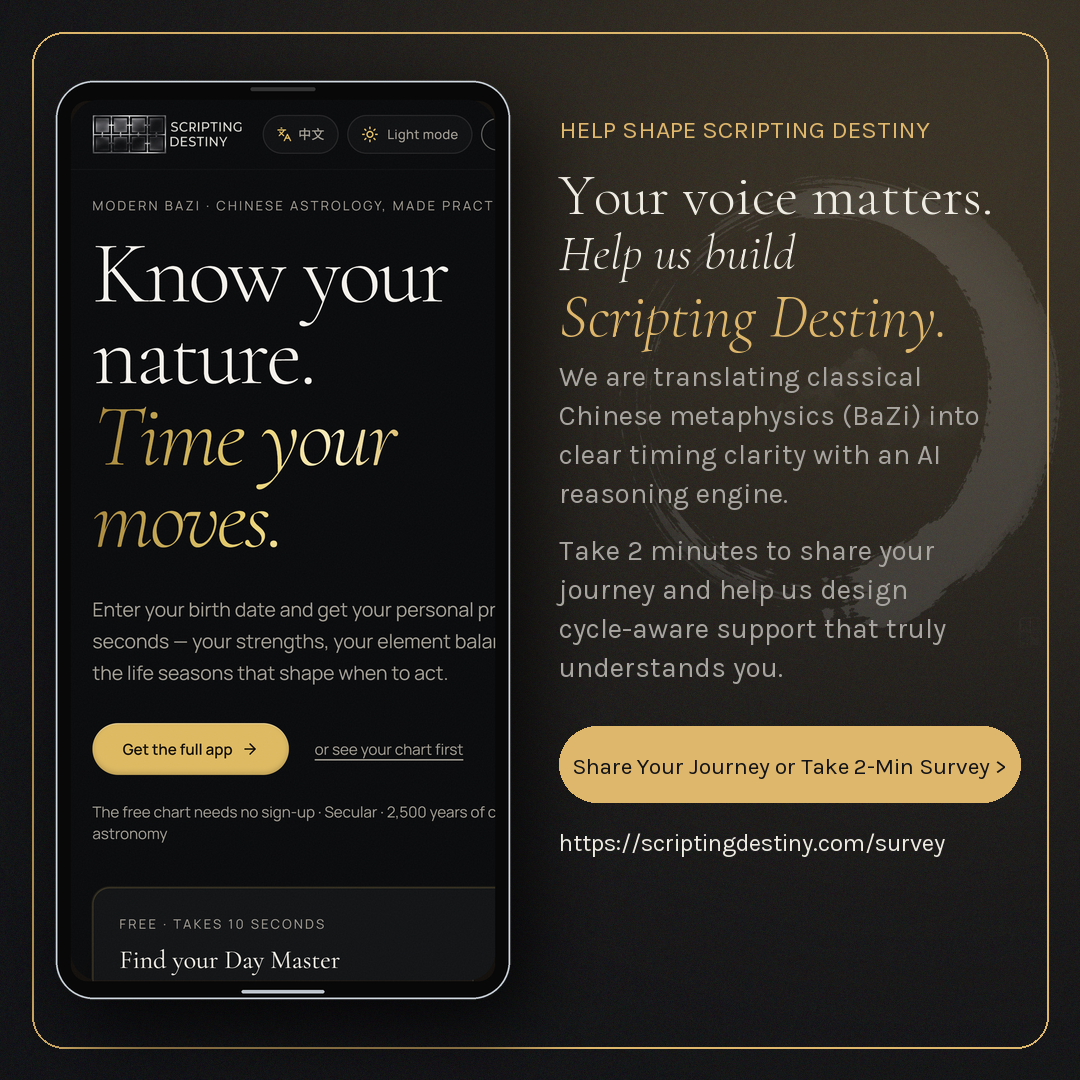
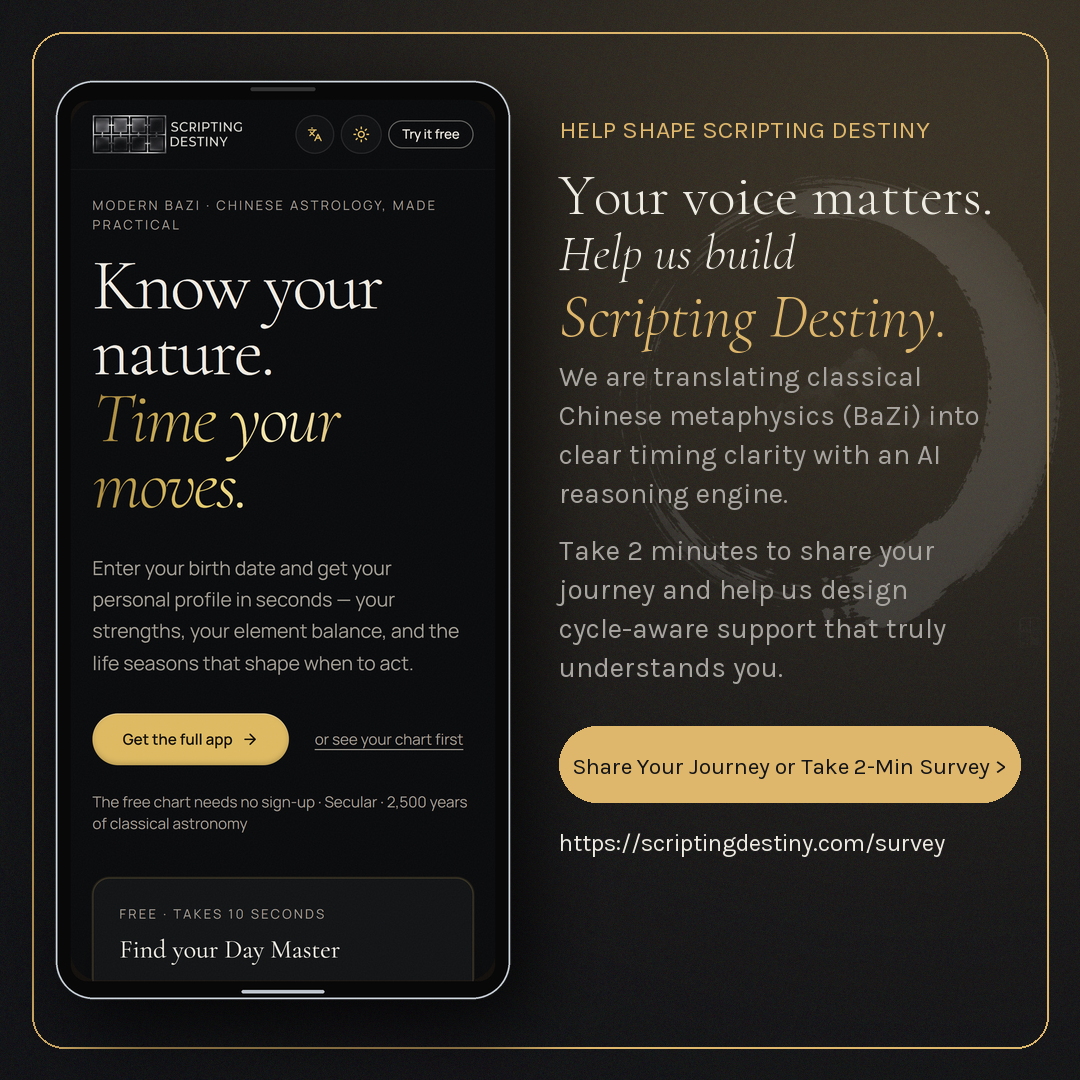
fix(mobile): resolve horizontal overflow on mobile viewports and unclip chart pillars

diff --git a/src/components/site/ChartTry.tsx b/src/components/site/ChartTry.tsx
@@ -78,32 +78,32 @@ export function ChartTry() {
 
   if (isResultOnly && chart && stemInfo) {
     return (
-      <div id="result" className="animate-in fade-in duration-300">
-        <div className="flex items-start gap-5">
+      <div id="result" className="animate-in fade-in duration-300 w-full max-w-sm sm:max-w-md mx-auto">
+        <div className="flex items-start gap-4 sm:gap-5">
           <span
-            className={`font-serif text-6xl leading-none ${ELEMENT_METALLIC[chart.dayMaster.element]}`}
+            className={`font-serif text-5xl sm:text-6xl leading-none shrink-0 ${ELEMENT_METALLIC[chart.dayMaster.element]}`}
           >
             {chart.dayMaster.hanzi}
           </span>
-          <div>
-            <p className="eyebrow">
+          <div className="min-w-0">
+            <p className="eyebrow truncate">
               {chart.dayMaster.pinyin} ·{" "}
               {isZh ? ELEMENT_ZH_MAP[chart.dayMaster.element] : chart.dayMaster.element} ·{" "}
               {t.chart.youAre}
             </p>
-            <h3 className="font-serif text-3xl font-light">{stemInfo.title}</h3>
-            <p className="text-sm italic text-muted-foreground">{stemInfo.archetype}</p>
+            <h3 className="font-serif text-2xl sm:text-3xl font-light">{stemInfo.title}</h3>
+            <p className="text-xs sm:text-sm italic text-muted-foreground">{stemInfo.archetype}</p>
           </div>
         </div>
-        <p className="mt-4 text-sm leading-relaxed">{stemInfo.description}</p>
+        <p className="mt-3.5 sm:mt-4 text-xs sm:text-sm leading-relaxed">{stemInfo.description}</p>
 
-        <div className="mt-6">
+        <div className="mt-5 sm:mt-6">
           <p className="eyebrow mb-2">{t.chart.eightCharacters}</p>
-          <div className="grid grid-cols-4 gap-2 rounded-xl border border-accent/25 dark:border-accent/20 p-2 bg-background/40 backdrop-blur-sm shadow-inner">
+          <div className="grid grid-cols-4 gap-1.5 sm:gap-2 rounded-xl border border-accent/25 dark:border-accent/20 p-1.5 sm:p-2.5 bg-background/40 backdrop-blur-sm shadow-inner">
             {(["hour", "day", "month", "year"] as const).map((k) => (
               <div
                 key={k + "s"}
-                className={`pillar-cell ${ELEMENT_TEXT[chart[k].stem.element]} ${k === "day" ? "is-day-master" : ""}`}
+                className={`pillar-cell min-w-0 ${ELEMENT_TEXT[chart[k].stem.element]} ${k === "day" ? "is-day-master" : ""}`}
               >
                 {chart[k].stem.hanzi}
               </div>
@@ -111,7 +111,7 @@ export function ChartTry() {
             {(["hour", "day", "month", "year"] as const).map((k) => (
               <div
                 key={k + "b"}
-                className={`pillar-cell ${ELEMENT_TEXT[chart[k].branch.element]}`}
+                className={`pillar-cell min-w-0 ${ELEMENT_TEXT[chart[k].branch.element]}`}
               >
                 {chart[k].branch.hanzi}
               </div>
@@ -125,12 +125,12 @@ export function ChartTry() {
           </div>
         </div>
 
-        <div className="mt-6">
+        <div className="mt-5 sm:mt-6">
           <p className="eyebrow mb-2">{t.chart.fiveElementsBalance}</p>
-          <div className="grid gap-2.5 rounded-lg border border-border/60 bg-background/30 p-3">
+          <div className="grid gap-2 sm:gap-2.5 rounded-lg border border-border/60 bg-background/30 p-2.5 sm:p-3">
             {(Object.keys(chart.elementBalance) as ElementType[]).map((el) => (
-              <div key={el} className="flex items-center gap-3 text-xs">
-                <span className="w-12 text-muted-foreground font-medium">
+              <div key={el} className="flex items-center gap-2.5 sm:gap-3 text-xs">
+                <span className="w-10 sm:w-12 text-muted-foreground font-medium">
                   {isZh ? ELEMENT_ZH_MAP[el] : el}
                 </span>
                 <div className="h-2 flex-1 overflow-hidden rounded-full bg-muted">
@@ -147,9 +147,9 @@ export function ChartTry() {
           </div>
         </div>
 
-        <div className="mt-6 rounded-xl bg-card border border-accent/20 p-5">
+        <div className="mt-5 sm:mt-6 rounded-xl bg-card border border-accent/20 p-4 sm:p-5">
           <p className="text-sm font-semibold">{t.chart.wantFullTitle}</p>
-          <p className="mb-4 mt-1 text-xs text-muted-foreground">{t.chart.wantFullDesc}</p>
+          <p className="mb-3.5 sm:mb-4 mt-1 text-xs text-muted-foreground">{t.chart.wantFullDesc}</p>
           <WaitlistForm compact />
         </div>
       </div>

diff --git a/src/routes/index.tsx b/src/routes/index.tsx
@@ -116,12 +116,12 @@ function Index() {
                 {t.nav.blog}
               </a>
             </nav>
-            <div className="flex items-center gap-2 sm:gap-3 2xl:gap-4">
+            <div className="flex items-center gap-1.5 sm:gap-3 2xl:gap-4 shrink-0">
               <LanguageToggle />
               <ThemeToggle />
               <a
                 href="#try"
-                className="rounded-full border border-foreground/40 px-3.5 py-1.5 2xl:px-5 2xl:py-2 text-xs sm:text-sm 2xl:text-base font-medium transition hover:bg-foreground hover:text-background shadow-sm"
+                className="rounded-full border border-foreground/40 px-3 py-1 sm:px-3.5 sm:py-1.5 2xl:px-5 2xl:py-2 text-xs sm:text-sm 2xl:text-base font-medium transition hover:bg-foreground hover:text-background shadow-sm whitespace-nowrap"
               >
                 {t.nav.tryItFree}
               </a>
@@ -131,7 +131,7 @@ function Index() {
       )}
 
       {view === "chart-result" ? (
-        <main className="site-container py-6 max-w-md">
+        <main className="site-container py-6 max-w-md mx-auto px-4 sm:px-6 overflow-x-hidden">
           <ChartTry />
         </main>
       ) : view === "chart" || view === "free-chart" ? (
@@ -156,7 +156,7 @@ function Index() {
       ) : (
         <main id="top" className="overflow-x-clip">
         {/* Hero */}
-        <section className="relative site-container pb-16 pt-6 sm:pb-20 sm:pt-8 lg:pt-12 2xl:pb-28 2xl:pt-16">
+        <section className="relative site-container pb-16 pt-6 sm:pb-20 sm:pt-8 lg:pt-12 2xl:pb-28 2xl:pt-16 overflow-x-clip">
           <img
             src={enso}
             alt=""
@@ -322,21 +322,23 @@ function Index() {
       </main>
       )}
 
-      <footer>
-        <InkStroke className="site-container" />
-        <div className="site-container flex flex-wrap items-center justify-between gap-4 py-8 2xl:py-12 text-xs 2xl:text-sm text-muted-foreground">
-          <span>
-            © {new Date().getFullYear()} {t.footer.copyright}
-          </span>
-          <div className="flex items-center gap-3 sm:gap-6 2xl:gap-8">
-            <LanguageToggle />
-            <ThemeToggle />
-            <Link to="/survey" className="hover:text-foreground transition-colors">
-              {t.footer.surveyLink}
-            </Link>
+      {view !== "chart-result" && (
+        <footer>
+          <InkStroke className="site-container" />
+          <div className="site-container flex flex-col sm:flex-row items-center justify-between gap-4 py-8 2xl:py-12 text-xs 2xl:text-sm text-muted-foreground">
+            <span>
+              © {new Date().getFullYear()} {t.footer.copyright}
+            </span>
+            <div className="flex flex-wrap items-center justify-center gap-3 sm:gap-6 2xl:gap-8">
+              <LanguageToggle />
+              <ThemeToggle />
+              <Link to="/survey" className="hover:text-foreground transition-colors whitespace-nowrap">
+                {t.footer.surveyLink}
+              </Link>
+            </div>
           </div>
-        </div>
-      </footer>
+        </footer>
+      )}
     </div>
   );
 }

diff --git a/src/components/site/ThemeToggle.tsx b/src/components/site/ThemeToggle.tsx
@@ -15,7 +15,7 @@ export function ThemeToggle({ className = "", showLabel = true }: ThemeTogglePro
       onClick={toggleTheme}
       aria-label={isDark ? "Switch to light cream mode" : "Switch to dark inkstone mode"}
       title={isDark ? "Switch to light cream mode" : "Switch to dark inkstone mode"}
-      className={`group relative inline-flex h-9 items-center gap-2 rounded-full border border-border bg-card/75 px-3 text-xs font-medium text-muted-foreground shadow-sm backdrop-blur-sm transition-all hover:border-foreground/30 hover:bg-card hover:text-foreground focus-visible:outline-none focus-visible:ring-2 focus-visible:ring-ring active:scale-95 cursor-pointer ${className}`}
+      className={`group relative inline-flex h-9 items-center gap-2 rounded-full border border-border bg-card/75 px-2.5 sm:px-3 text-xs font-medium text-muted-foreground shadow-sm backdrop-blur-sm transition-all hover:border-foreground/30 hover:bg-card hover:text-foreground focus-visible:outline-none focus-visible:ring-2 focus-visible:ring-ring active:scale-95 cursor-pointer ${className}`}
     >
       <span className="relative flex h-4 w-4 shrink-0 items-center justify-center">
         {isDark ? (
@@ -25,9 +25,8 @@ export function ThemeToggle({ className = "", showLabel = true }: ThemeTogglePro
         )}
       </span>
       {showLabel && (
-        <span className="font-sans font-medium tracking-wide">
-          <span className="hidden min-[420px]:inline">{isDark ? "Light mode" : "Dark mode"}</span>
-          <span className="min-[420px]:hidden">{isDark ? "Light" : "Dark"}</span>
+        <span className="hidden sm:inline font-sans font-medium tracking-wide">
+          {isDark ? "Light" : "Dark"}
         </span>
       )}
     </button>

diff --git a/src/components/site/LanguageToggle.tsx b/src/components/site/LanguageToggle.tsx
@@ -15,11 +15,13 @@ export function LanguageToggle({ className = "", showLabel = true }: LanguageTog
       onClick={toggleLang}
       aria-label={isZh ? "Switch to English" : "切换至简体中文 (Switch to Simplified Chinese)"}
       title={isZh ? "Switch to English" : "切换至简体中文 (Switch to Simplified Chinese)"}
-      className={`group relative inline-flex h-9 items-center gap-1.5 rounded-full border border-border bg-card/75 px-3 text-xs font-medium text-muted-foreground shadow-sm backdrop-blur-sm transition-all hover:border-foreground/30 hover:bg-card hover:text-foreground focus-visible:outline-none focus-visible:ring-2 focus-visible:ring-ring active:scale-95 cursor-pointer ${className}`}
+      className={`group relative inline-flex h-9 items-center gap-1.5 rounded-full border border-border bg-card/75 px-2.5 sm:px-3 text-xs font-medium text-muted-foreground shadow-sm backdrop-blur-sm transition-all hover:border-foreground/30 hover:bg-card hover:text-foreground focus-visible:outline-none focus-visible:ring-2 focus-visible:ring-ring active:scale-95 cursor-pointer ${className}`}
     >
       <Languages className="h-3.5 w-3.5 text-accent transition-transform duration-300 group-hover:scale-110" />
       {showLabel && (
-        <span className="font-sans font-medium tracking-wide">{isZh ? "English" : "中文"}</span>
+        <span className="hidden sm:inline font-sans font-medium tracking-wide">
+          {isZh ? "English" : "中文"}
+        </span>
       )}
     </button>
   );

diff --git a/src/styles.css b/src/styles.css
@@ -161,6 +161,9 @@
   }
   html {
     scroll-behavior: smooth;
+    overflow-x: hidden;
+    max-width: 100vw;
+    width: 100%;
   }
   html.dark {
     color-scheme: dark;
@@ -177,6 +180,9 @@
     font-family: var(--font-sans);
     -webkit-font-smoothing: antialiased;
     transition: background-color 0.3s ease, color 0.3s ease;
+    overflow-x: hidden;
+    max-width: 100vw;
+    width: 100%;
   }
   .dark ::selection {
     background: oklch(0.79 0.115 92 / 0.28);
@@ -544,9 +550,10 @@ body::before {
   aspect-ratio: 1;
   border-radius: 6px;
   font-family: var(--font-serif);
-  font-size: 1.65rem;
+  font-size: clamp(1.35rem, 5.5vw, 1.65rem);
   transition: all 0.3s ease;
   position: relative;
+  min-width: 0;
 }
 .dark .pillar-cell {
   border: 1px solid oklch(0.80 0.115 88 / 0.25);
